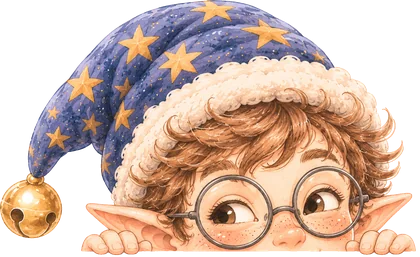
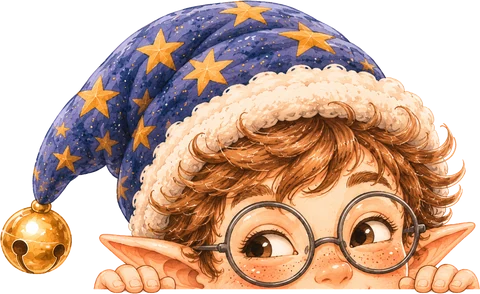
Avent : nouvelles images du lutin et de la lutine derrière le bouton (fond détouré), anciennes images retirées
Claude-Session: https://claude.ai/code/session_015Q4mEmXZ2VKWGbeDdfLTom

diff --git a/avent/avent.js b/avent/avent.js
@@ -67,7 +67,7 @@ function path(){var p=location.pathname; return p.charAt(p.length-1)==='/'?p:p+'
 
 /* ---------- Images (dossier /avent/) ---------- */
 var IMG='/avent/', ORN=['case-bois','case-boule','case-etoile','case-coeur'];
-var DIM={"bandeau":[1200,214],"coffre-a-soucis":[600,433],"mon-refuge":[600,400],"case-bois":[154,160],"case-boule":[130,160],"case-cadeau":[178,160],"case-coeur":[162,160],"case-etoile":[144,160],"lutin-cache":[220,300],"peek-lutin-2":[420,257],"peek-lutin":[420,257],"peek-lutine-2":[420,237],"peek-lutine":[420,237],"scenes/arrivee":[1200,675],"scenes/depart":[1200,675],"scenes/j01":[720,406],"scenes/j02":[720,788],"scenes/j03":[720,720],"scenes/j04":[720,720],"scenes/j05":[720,720],"scenes/j06":[720,720],"scenes/j07":[720,720],"scenes/j08":[720,720],"scenes/j09":[720,720],"scenes/j10":[720,720],"scenes/j11":[720,720],"scenes/j12":[720,720],"scenes/j13":[720,720],"scenes/j14":[720,720],"scenes/j15":[720,720],"scenes/j16":[720,720],"scenes/j17":[720,720],"scenes/j18":[720,720],"scenes/j19":[720,720],"scenes/j20":[720,720],"scenes/j21":[720,720],"scenes/j22":[720,720],"scenes/j23":[720,720],"scenes/j24":[720,720],"side-lutin":[300,311],"side-lutine":[300,498],"top-lutin":[280,448],"top-lutine":[280,449]};
+var DIM={"bandeau":[1200,214],"coffre-a-soucis":[600,433],"mon-refuge":[600,400],"case-bois":[154,160],"case-boule":[130,160],"case-cadeau":[178,160],"case-coeur":[162,160],"case-etoile":[144,160],"lutin-cache":[220,300],"peek-lutin":[480,294],"peek-lutine":[480,274],"scenes/arrivee":[1200,675],"scenes/depart":[1200,675],"scenes/j01":[720,406],"scenes/j02":[720,788],"scenes/j03":[720,720],"scenes/j04":[720,720],"scenes/j05":[720,720],"scenes/j06":[720,720],"scenes/j07":[720,720],"scenes/j08":[720,720],"scenes/j09":[720,720],"scenes/j10":[720,720],"scenes/j11":[720,720],"scenes/j12":[720,720],"scenes/j13":[720,720],"scenes/j14":[720,720],"scenes/j15":[720,720],"scenes/j16":[720,720],"scenes/j17":[720,720],"scenes/j18":[720,720],"scenes/j19":[720,720],"scenes/j20":[720,720],"scenes/j21":[720,720],"scenes/j22":[720,720],"scenes/j23":[720,720],"scenes/j24":[720,720],"side-lutin":[300,311],"side-lutine":[300,498],"top-lutin":[280,448],"top-lutine":[280,449]};
 function scene(n){ return DIM['scenes/j'+(n<10?'0':'')+n] ? pic('scenes/j'+(n<10?'0':'')+n,'av-pic') : ''; }
 function pic(n,cls,lazy){return '<img src="'+IMG+n+'.webp" alt="" width="'+DIM[n][0]+'" height="'+DIM[n][1]+'"'+(cls?' class="'+cls+'"':'')+(lazy?' loading="lazy"':'')+' decoding="async">'}
 
@@ -115,8 +115,6 @@ var css=
 '@media (prefers-reduced-motion:reduce){.av-fx{transition:none;animation:none !important}}'+
 '.av-pk{position:relative;display:block;transform:translateY(102%);transform-origin:50% 100%}'+
 '.av-pk img{display:block;width:100%;height:auto}'+
-'.av-pk .av-pk2{position:absolute;left:0;top:0;opacity:0}'+
-'.av-peek.alt .av-pk2{opacity:1}'+
 '.av-peek.shown .av-pk{transform:none}'+
 '.av-peek.up .av-pk{animation:avUp 1.1s cubic-bezier(.25,.8,.35,1) both}'+
 '.av-peek.idle .av-pk{transform:none;animation:avLook 7s ease-in-out infinite}'+
